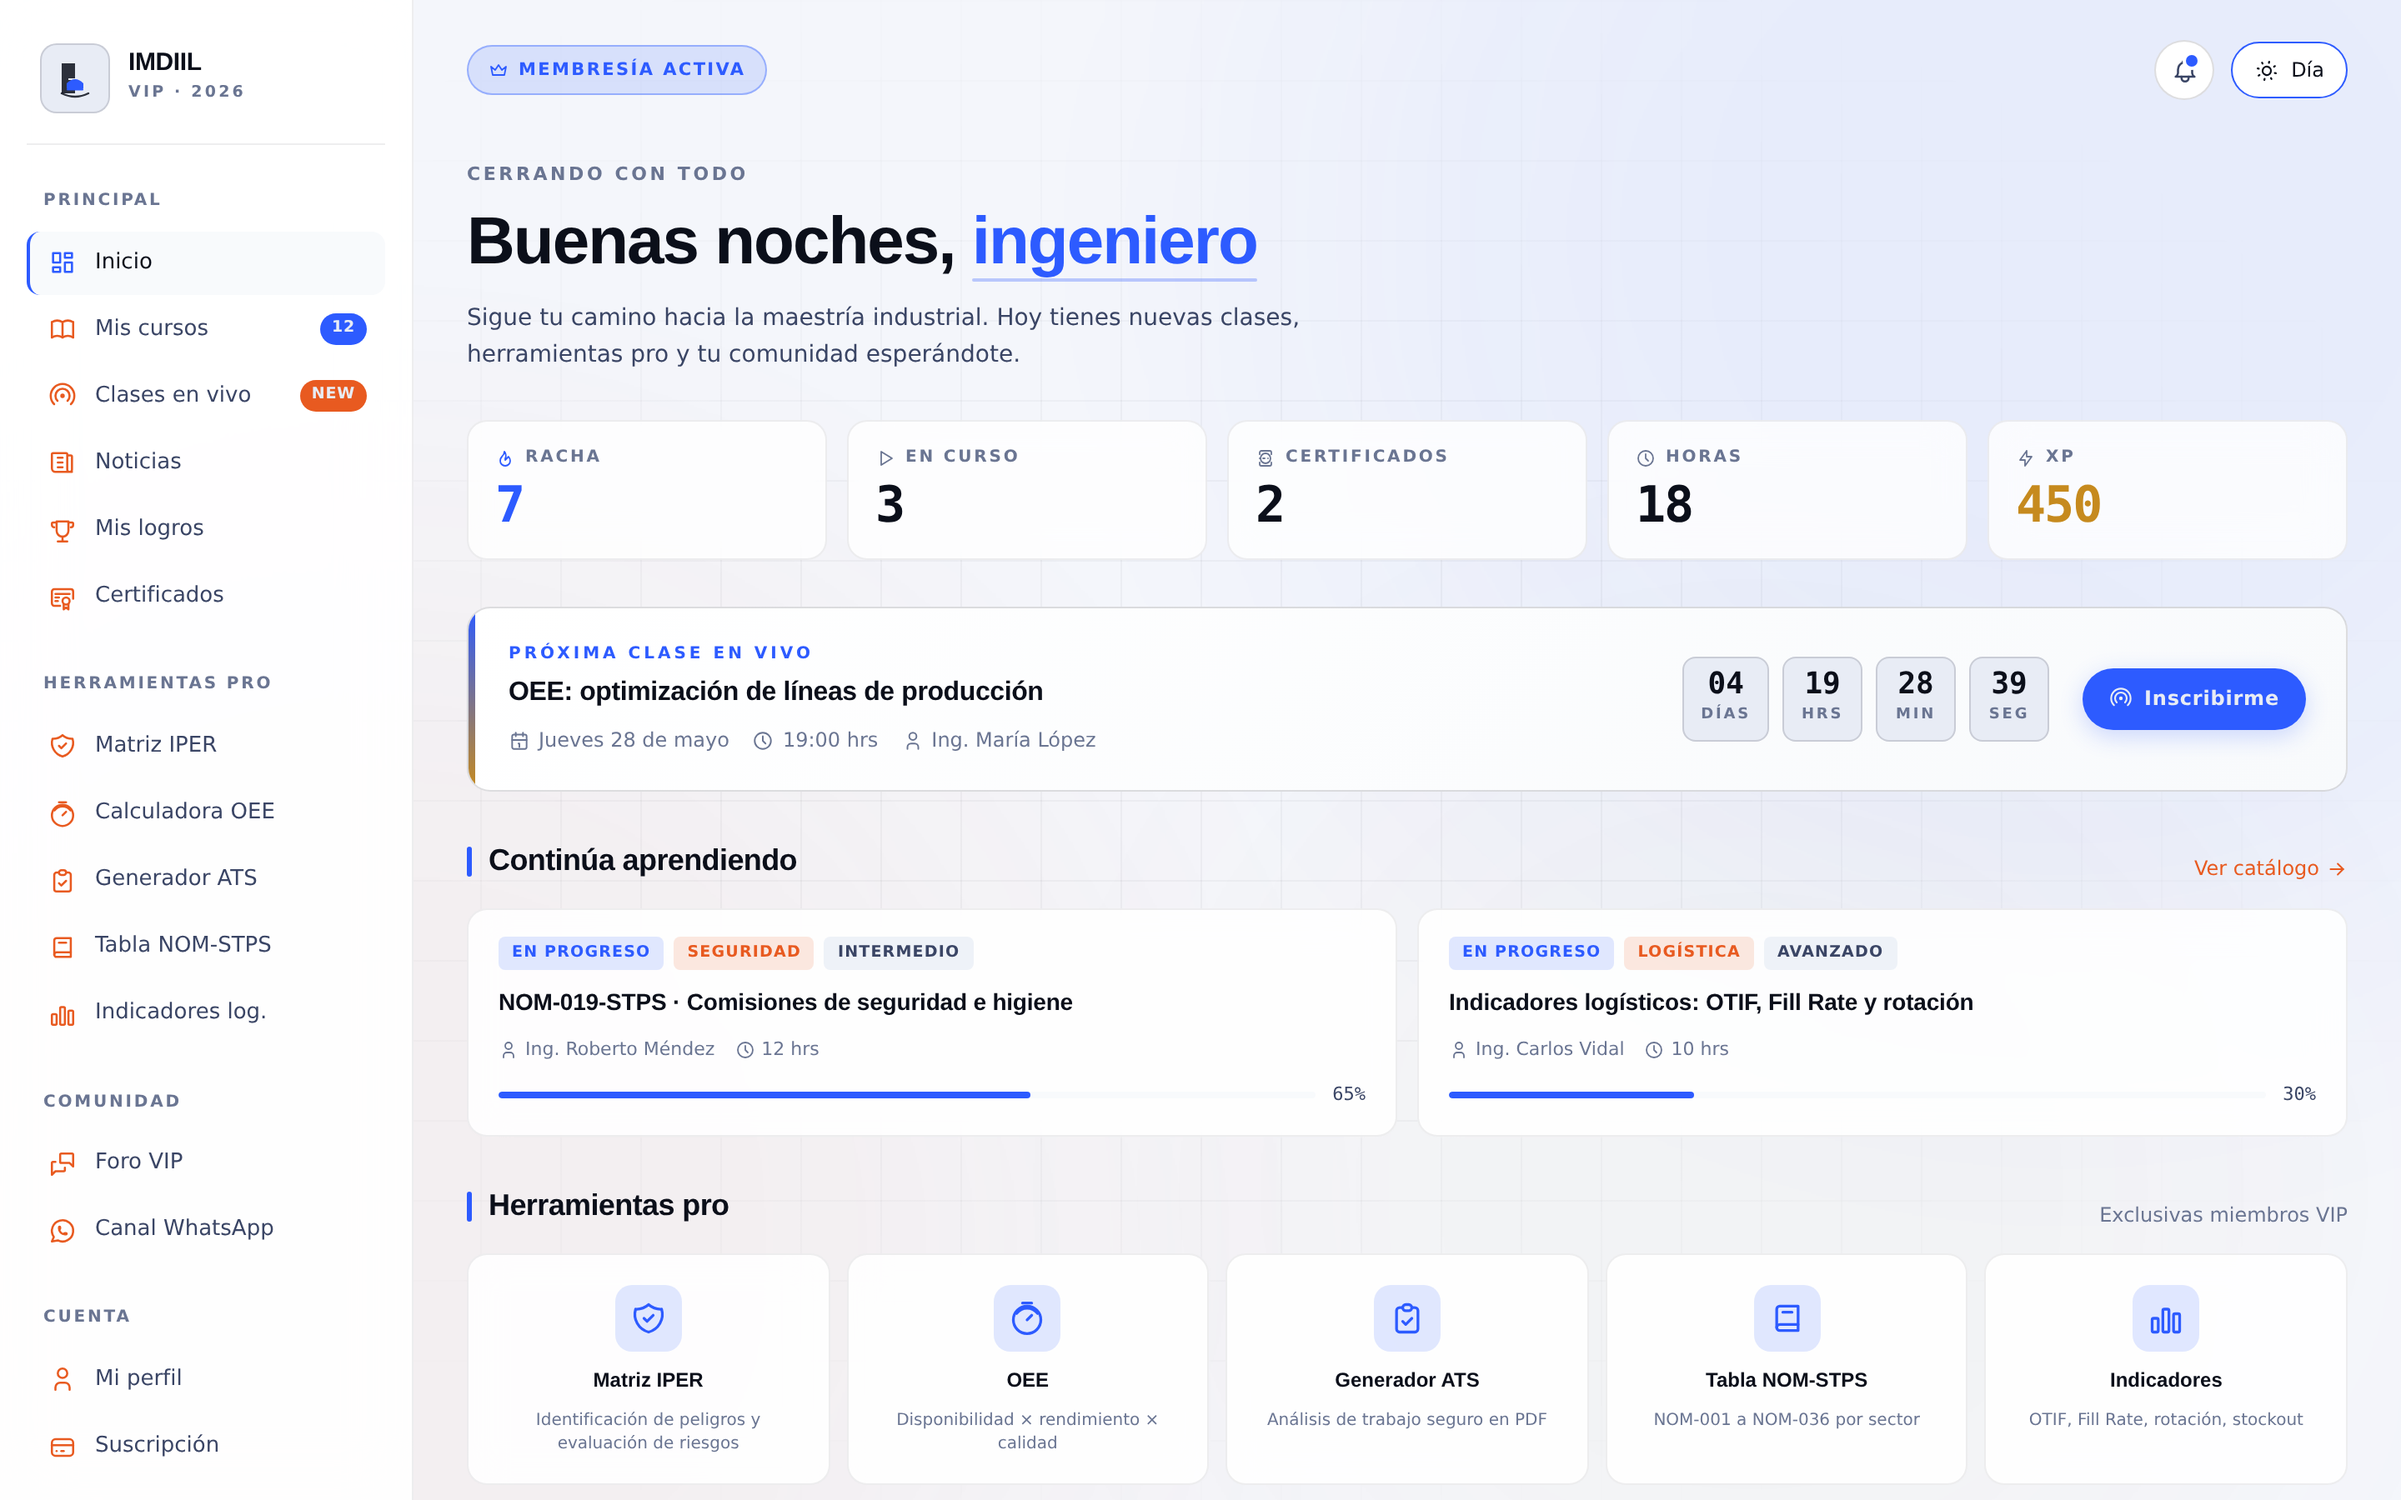
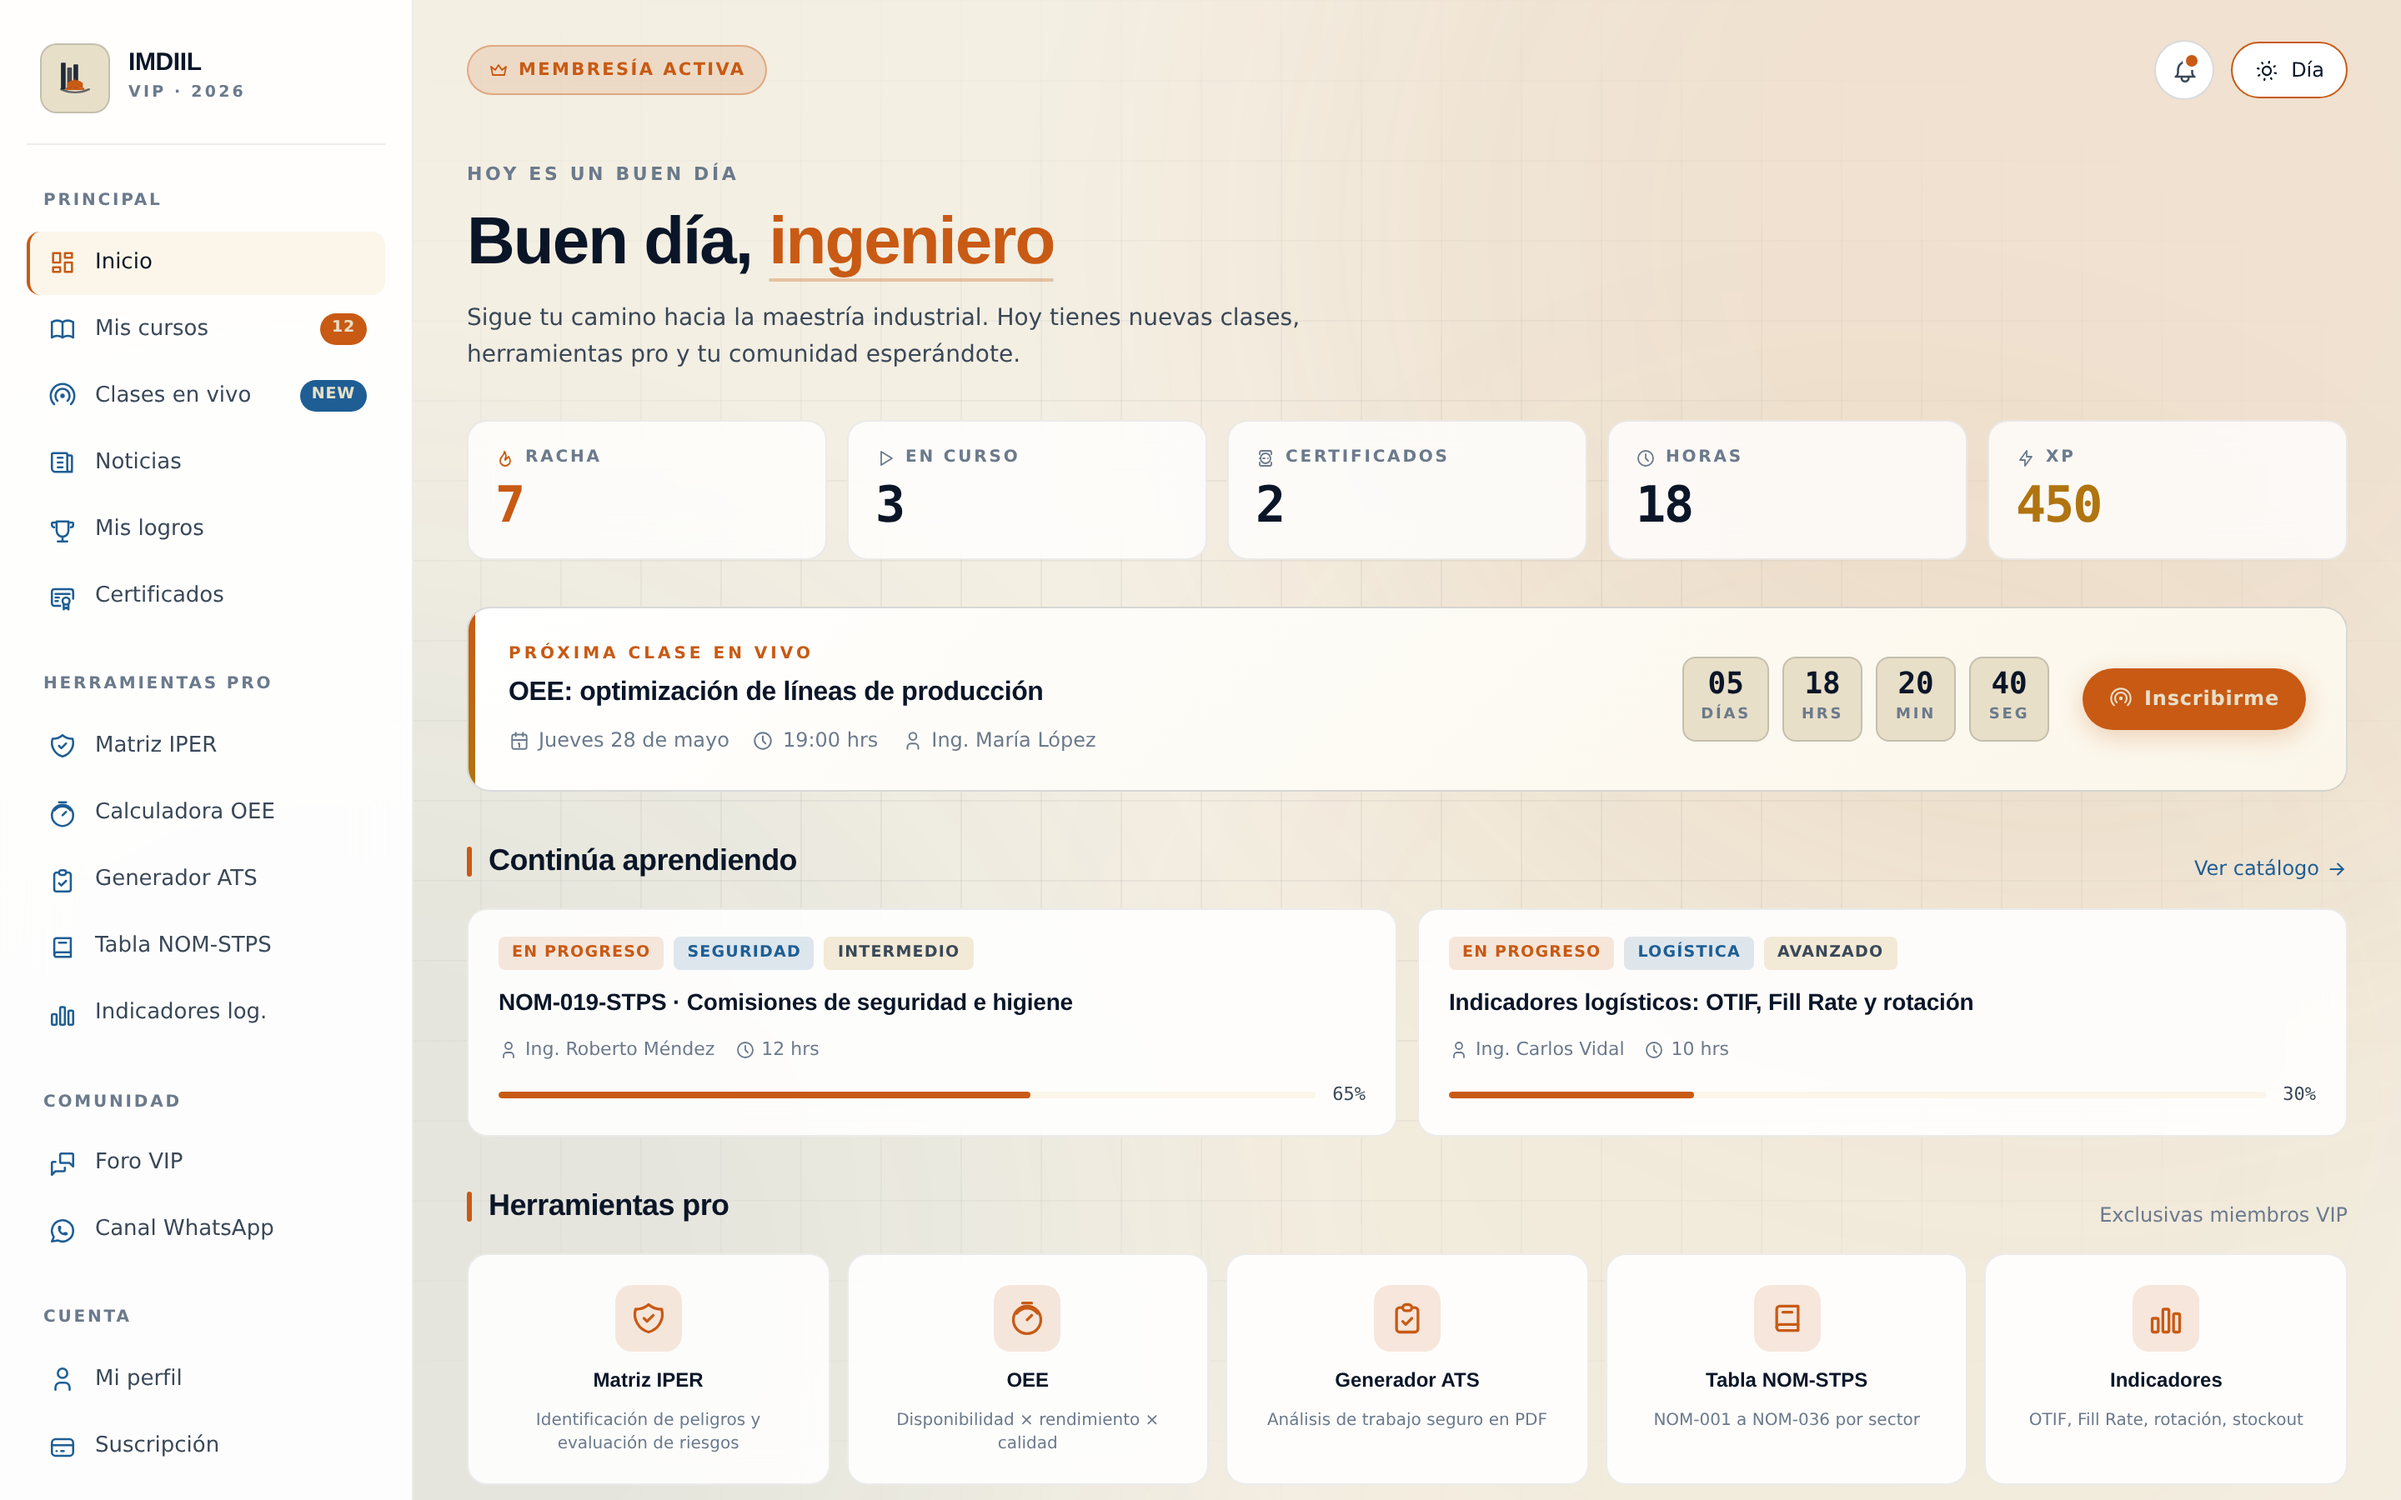
Add files via upload

diff --git a/vip-panel.html b/vip-panel.html
@@ -58,33 +58,33 @@ svg{flex-shrink:0}
   --logo-accent:#E8772E;
 }
 :root[data-theme="day"]{
-  --bg:#F4F6FB;
-  --bg-deep:#E8ECF5;
+  --bg:#F4EFE3;
+  --bg-deep:#E8DFC8;
   --surface:#FFFFFF;
-  --surface-2:#F8FAFC;
-  --surface-3:#EEF2F8;
-  --border:rgba(11,15,26,0.07);
-  --border-2:rgba(11,15,26,0.14);
-  --border-strong:rgba(11,15,26,0.26);
-  --text:#0B0F1A;
-  --text-2:#3A4565;
-  --text-3:#6A7592;
-  --primary:#2D5BFF;
-  --primary-soft:#5B82FF;
-  --primary-glow:rgba(45,91,255,0.22);
-  --secondary:#E85A20;
-  --secondary-soft:#F07A47;
-  --highlight:#C68A1E;
-  --success:#0A8F5E;
-  --danger:#D63846;
-  --aurora-1:rgba(45,91,255,0.07);
-  --aurora-2:rgba(232,90,32,0.05);
-  --aurora-3:rgba(198,138,30,0.04);
-  --grid-line:rgba(11,15,26,0.035);
-  --shadow-card:0 4px 24px rgba(11,15,26,0.06);
+  --surface-2:#FBF6E9;
+  --surface-3:#F2EAD6;
+  --border:rgba(10,22,40,0.08);
+  --border-2:rgba(10,22,40,0.16);
+  --border-strong:rgba(10,22,40,0.28);
+  --text:#0A1628;
+  --text-2:#3A4858;
+  --text-3:#6B7A8C;
+  --primary:#C85A14;
+  --primary-soft:#E8772E;
+  --primary-glow:rgba(200,90,20,0.25);
+  --secondary:#1E5E94;
+  --secondary-soft:#2B7BB9;
+  --highlight:#B07410;
+  --success:#0A7F4E;
+  --danger:#C13141;
+  --aurora-1:rgba(200,90,20,0.10);
+  --aurora-2:rgba(30,94,148,0.07);
+  --aurora-3:rgba(176,116,16,0.05);
+  --grid-line:rgba(10,22,40,0.045);
+  --shadow-card:0 4px 24px rgba(10,22,40,0.07);
   --shadow-glow:0 0 28px var(--primary-glow);
-  --logo-text:#0B0F1A;
-  --logo-accent:#2D5BFF;
+  --logo-text:#0A1628;
+  --logo-accent:#C85A14;
 }
 
 body{
@@ -452,11 +452,14 @@ main.main{padding:24px 32px 80px;display:flex;flex-direction:column;gap:28px;min
   <aside class="sidebar">
     <div class="brand">
       <div class="brand__logo">
-        <svg viewBox="0 0 60 60" xmlns="http://www.w3.org/2000/svg" aria-label="IMDIIL">
-          <path d="M14 12 L22 12 L22 48 L14 48 Z M22 12 L30 12 L30 30 L22 30 Z M22 32 L30 32 L30 48 L22 48 Z" fill="var(--logo-text)" opacity=".85"/>
-          <path d="M14 48 Q 30 56 46 48" stroke="var(--logo-text)" stroke-width="2.5" fill="none" stroke-linecap="round" opacity=".85"/>
-          <path d="M20 36 Q 30 26 40 36 L 40 42 L 20 42 Z" fill="var(--logo-accent)"/>
-          <rect x="20" y="42" width="20" height="2.5" rx="1" fill="var(--logo-accent)"/>
+        <svg viewBox="0 0 64 64" xmlns="http://www.w3.org/2000/svg" aria-label="IMDIIL">
+          <rect x="14" y="12" width="6" height="34" rx="1" fill="var(--logo-text)" opacity=".9"/>
+          <rect x="22" y="18" width="6" height="28" rx="1" fill="var(--logo-text)" opacity=".75"/>
+          <rect x="30" y="14" width="6" height="32" rx="1" fill="var(--logo-text)" opacity=".9"/>
+          <path d="M 14 46 Q 32 54 50 46" stroke="var(--logo-text)" stroke-width="2.4" fill="none" stroke-linecap="round" opacity=".6"/>
+          <path d="M 22 38 Q 32 30 42 38 L 42 44 L 22 44 Z" fill="var(--logo-accent)"/>
+          <rect x="20" y="44" width="24" height="3" rx="1.5" fill="var(--logo-accent)"/>
+          <rect x="31" y="32" width="2" height="6" rx="1" fill="var(--logo-accent)" opacity=".5"/>
         </svg>
       </div>
       <div>
